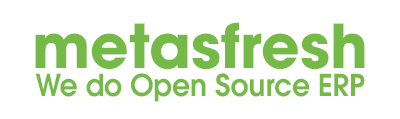
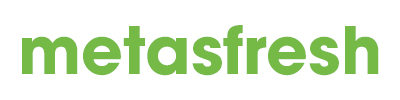
Update docs pages
- changed logo
- updated links (made them language dependent)
- some minor corrections

(this is about issue #493 )

Changed region(s): [[0.03, 0.18, 0.96, 0.87]]

diff --git a/_includes/head.html b/_includes/head.html
@@ -42,11 +42,21 @@
         <nav>
             <div class="row">
                 <div class="main-nav">
-                    <a href="{{ site.github.url }}/index.html">Zurück zur Startseite</a>
+                    {% if page.name == "index.md" %}
+                        <a href="https://metasfresh.com/en/category/blog-en/" target="_blank">Visit our blog on metasfresh.com!</a>
+                    {% else %}
+                        {% if page.lang == 'de' or include.lang == 'de' %}
+                            <a href="{{ site.github.url }}/index.html">Zurück zur Startseite</a>
+                        {% else %}
+                            <a href="{{ site.github.url }}/index.html">Return to Home</a>
+                        {% endif %}
+                    {% endif %}
                 </div>
-                <a href="{{ metasfresh_home }}" title="Go to metasfresh.com" target="_blank">
-                    <img src="{{ site.github.url }}/images/metasfreshNEG_400px.jpg" alt="metasfresh logo and link to homepage" class="logo">
-                </a>
+                {% if page.lang == 'de' or include.lang == 'de' %}
+                    <a href="{{ metasfresh_home }}" title="Zur metasfresh.com Homepage" target="_blank"><img src="{{ site.github.url }}/images/metasfreshNEG_400px.jpg" alt="metasfresh Logo und Link zur Website" class="logo"></a>
+                {% else %}
+                    <a href="{{ metasfresh_home }}" title="Visit metasfresh.com" target="_blank"><img src="{{ site.github.url }}/images/metasfreshNEG_400px.jpg" alt="metasfresh logo and link to website" class="logo"></a>
+                {% endif %}
             </div>
         </nav>
 

diff --git a/_includes/foot.html b/_includes/foot.html
@@ -4,12 +4,21 @@
 -->
 	<!-- adding the data-proofer-ignore ignore attribute for html-proofer, because when this is evaluated, the respective md file might not yet be on the ghpages branch -->
 	<hr>
-	<a href="https://github.com/metasfresh/metasfresh-documentation/blob/gh-pages/{{page.path}}" data-proofer-ignore>Zur Quelldatei auf github.com</a><br/>
-	
-	{% comment %} 
+      {% if page.name == "index.md" %}
+          <a href="https://github.com/metasfresh/metasfresh/releases/latest" title="View the latest metasfresh release" target="_blank" data-proofer-ignore>View our Source Code on GitHub.com</a>
+      {% else %}
+          {% if page.lang == 'de' or include.lang == 'de' %}
+              <a href="https://github.com/metasfresh/metasfresh-documentation/blob/gh-pages/{{page.path}}" title="Quelldatei dieser Seite anzeigen" target="_blank" data-proofer-ignore>Zur Quelldatei auf GitHub.com</a>
+          {% else %}
+              <a href="https://github.com/metasfresh/metasfresh-documentation/blob/gh-pages/{{page.path}}" title="View this page's source file" target="_blank" data-proofer-ignore>View source file on GitHub.com</a>
+          {% endif %}
+      {% endif %}
+	<br/>
+
+	{% comment %}
 	This doesn't really make sense, because all pages are recreated if one of them changes.
 	What we could use would be an indiviual page's update time..
-	Seite zuletzt geändert: {{ site.time | date_to_long_string }} 
+	Seite zuletzt geändert: {{ site.time | date_to_long_string }}
 	{% endcomment %}
 </body>
 </html>

diff --git a/css/styles.css b/css/styles.css
@@ -11,7 +11,7 @@
 .main-nav {
     float: left;
     list-style: none;
-    margin-top: 25px;
+    margin-top: 20px;
 }
 
 .main-nav a {

diff --git a/_howto_collection/EN/metasfresh_architecture.md b/_howto_collection/EN/metasfresh_architecture.md
@@ -13,15 +13,15 @@ lang: en
 
 | Service | Dev Language | Running on | Technologies | Repo |
 | :--- | :--- | :--- | :--- | :--- |
-| WebUI | Javascript | Apache / Nginx | React Redux, HTML5, PostCSS | <a href="https://github.com/metasfresh/metasfresh-webui-frontend" title="metasfresh-webui-frontend on Github" target="blank">Github</a> |
-| WebAPI | Java 8 | Spring Boot | REST, JSON, Swagger, Spring, hazelcast, websocket | <a href="https://github.com/metasfresh/metasfresh-webui" title="metasfresh-webui on Github" target="blank">Github</a> |
-| App | Java 8, SQL | Spring Boot | Jasper Reports, Application Dictionary | <a href="https://github.com/metasfresh/metasfresh" title="metasfresh on Github" target="blank">Github</a> |
-| DB | SQL, PgSQL | Postgres (9.5+) | Application Dictionary | <a href="https://github.com/metasfresh/metasfresh" title="metasfresh on Github" target="blank">Github</a> |
-| Reporting | JRXML | Jasperserver | Jasper Reports 6.5.1 <a href="https://community.jaspersoft.com/project/jaspersoft-studio/releases#project_releases-old-1" title="Jaspersoft® Studio" target="blank">Client</a> | <a href="https://github.com/metasfresh/metasfresh/tree/master/de.metas.fresh/de.metas.fresh.base/src/main/jasperreports/de/metas" title="jasperreports/de/metas on Github" target="blank">Github</a> |
-| elastic Search |  |  | Standard Elastic Search | <a href="https://github.com/elastic/elasticsearch" title="elasticsearch on Github" target="blank">Github</a> |
-| RabbitMQ |  |  |Standard RabbitMQ | <a href="https://github.com/rabbitmq" title="rabbitmq on Github" target="blank">Github</a> |
-| Java Client | Java 8 | Java JRE 8+ | Swing | <a href="https://github.com/metasfresh/metasfresh" title="metasfresh on Github" target="blank">Github</a> |
+| WebUI | Javascript | Apache / Nginx | React Redux, HTML5, PostCSS | <a href="https://github.com/metasfresh/metasfresh-webui-frontend" title="metasfresh-webui-frontend on Github" target="_blank">Github</a> |
+| WebAPI | Java 8 | Spring Boot | REST, JSON, Swagger, Spring, hazelcast, websocket | <a href="https://github.com/metasfresh/metasfresh-webui" title="metasfresh-webui on Github" target="_blank">Github</a> |
+| App | Java 8, SQL | Spring Boot | Jasper Reports, Application Dictionary | <a href="https://github.com/metasfresh/metasfresh" title="metasfresh on Github" target="_blank">Github</a> |
+| DB | SQL, PgSQL | Postgres (9.5+) | Application Dictionary | <a href="https://github.com/metasfresh/metasfresh" title="metasfresh on Github" target="_blank">Github</a> |
+| Reporting | JRXML | Jasperserver | Jasper Reports 6.5.1 <a href="https://community.jaspersoft.com/project/jaspersoft-studio/releases#project_releases-old-1" title="Jaspersoft® Studio" target="_blank">Client</a> | <a href="https://github.com/metasfresh/metasfresh/tree/master/de.metas.fresh/de.metas.fresh.base/src/main/jasperreports/de/metas" title="jasperreports/de/metas on Github" target="_blank">Github</a> |
+| elastic Search |  |  | Standard Elastic Search | <a href="https://github.com/elastic/elasticsearch" title="elasticsearch on Github" target="_blank">Github</a> |
+| RabbitMQ |  |  |Standard RabbitMQ | <a href="https://github.com/rabbitmq" title="rabbitmq on Github" target="_blank">Github</a> |
+| Java Client | Java 8 | Java JRE 8+ | Swing | <a href="https://github.com/metasfresh/metasfresh" title="metasfresh on Github" target="_blank">Github</a> |
 |  |  |  |  |  |
 | ***Optional:*** |
-| Material Schedule | Java 8 | Spring Boot | Real-time calculation of material | <a href="https://github.com/metasfresh/metasfresh" title="metasfresh on Github" target="blank">Github</a> |
-| Jasper Reports | Java 8 | Spring Boot | Render Jasper reports | <a href="https://github.com/metasfresh/metasfresh" title="metasfresh on Github" target="blank">Github</a> |
+| Material Schedule | Java 8 | Spring Boot | Real-time calculation of material | <a href="https://github.com/metasfresh/metasfresh" title="metasfresh on Github" target="_blank">Github</a> |
+| Jasper Reports | Java 8 | Spring Boot | Render Jasper reports | <a href="https://github.com/metasfresh/metasfresh" title="metasfresh on Github" target="_blank">Github</a> |

diff --git a/_rest_api_collection/EN/General_info_REST_API.md b/_rest_api_collection/EN/General_info_REST_API.md
@@ -9,7 +9,7 @@ ref: general_info_rest_api
 ---
 
 ## Overview
-By means of the metasfresh web service (REST API) you can transfer external data to metasfresh and retrieve, update or delete existing data entries from the system. This is done via so-called *API endpoints*. Each endpoint is set up for the migration of certain data sets, which can be transferred to the metasfresh application server through server requests in <a href="https://www.json.org/index.html" title="Introducing JSON" target="blank">JSON format</a>. A special feature of the metasfresh REST API is that you can also combine data sets that would normally be migrated separately via the respective endpoints, and import them in a single server request, thereby creating several data entries in one go. For example, when migrating a sales order candidate to metasfresh's sales order disposition, both a new business partner and product entry can be created simultaneously.
+By means of the metasfresh web service (REST API) you can transfer external data to metasfresh and retrieve, update or delete existing data entries from the system. This is done via so-called *API endpoints*. Each endpoint is set up for the migration of certain data sets, which can be transferred to the metasfresh application server through server requests in <a href="https://www.json.org/index.html" title="Introducing JSON" target="_blank">JSON format</a>. A special feature of the metasfresh REST API is that you can also combine data sets that would normally be migrated separately via the respective endpoints, and import them in a single server request, thereby creating several data entries in one go. For example, when migrating a sales order candidate to metasfresh's sales order disposition, both a new business partner and product entry can be created simultaneously.
 
 A template for a JSON server request is provided for each endpoint in the respective input field (![request example](assets/example_value.png)) and can be viewed, copied and modified using the required data. A description of the request model (![request model](assets/model.png)) with explanations of the individual elements will help you to create your own server request.
 
@@ -21,7 +21,7 @@ In order to use the web service, you require an authentication token that you wi
  >**Note:** The URL is usually composed as follows:<br> https://`instance.name###`.metasfresh.com/app/swagger-ui.html#/
 
 1. Open the endpoint you want to use for data migration by clicking on the endpoint name.
-1. Click on the desired <a href="https://www.w3schools.com/tags/ref_httpmethods.asp" title="HTTP Request Methods" target="blank">request method</a> on the left below the endpoint name.
+1. Click on the desired <a href="https://www.w3schools.com/tags/ref_httpmethods.asp" title="HTTP Request Methods" target="_blank">request method</a> on the left below the endpoint name.
 1. Click !["Try it out"](assets/button_try_it_out.png) on the right below the request method. The input fields **Authorization token** and **request** become editable.
 1. In the field **Authorization token**, paste your authentication token.
 1. In the field **request**, paste your prepared JSON server request.

diff --git a/_rest_api_collection/DE/Allgemeine_Infos_REST_API.md b/_rest_api_collection/DE/Allgemeine_Infos_REST_API.md
@@ -9,7 +9,7 @@ ref: general_info_rest_api
 ---
 
 ## Überblick
-Über den metasfresh Webservice (REST API) kannst Du externe Daten nach metasfresh übertragen sowie bestehende Dateneinträge aus dem System abrufen, aktualisieren oder löschen. Dies erfolgt über sogenannte *API-Endpunkte*, wobei jeder Endpunkt für die Migration bestimmter Datensätze eingerichtet ist, die mittels Serveranfrage im <a href="https://www.json.org/json-de.html" title="Einführung in JSON" target="blank">JSON-Format</a> an den metasfresh Application Server übermittelt werden können.
+Über den metasfresh Webservice (REST API) kannst Du externe Daten nach metasfresh übertragen sowie bestehende Dateneinträge aus dem System abrufen, aktualisieren oder löschen. Dies erfolgt über sogenannte *API-Endpunkte*, wobei jeder Endpunkt für die Migration bestimmter Datensätze eingerichtet ist, die mittels Serveranfrage im <a href="https://www.json.org/json-de.html" title="Einführung in JSON" target="_blank">JSON-Format</a> an den metasfresh Application Server übermittelt werden können.
 Eine Besonderheit der metasfresh REST API ist, dass Du Datenmigrationen, die im Normalfall über die einzelnen Endpunkte erfolgen würden, ebenso gut in nur einer Serveranfrage zusammenfassen kannst, im Zuge dessen gleich mehrere Dateneinträge auf einmal angelegt werden. So lässt sich z.B. bei der Migration eines Auftragskandidaten in die Auftragsdisposition von metasfresh gleichzeitig ein neuer Geschäftspartner- und Produkteintrag anlegen.
 
 Eine Vorlage für eine Serveranfrage im JSON-Format steht für jeden Endpunkt zur Verfügung und kann an der jeweiligen Stelle (![Anfragevorlage](assets/example_value.png)) eingesehen, kopiert und mit den gewünschten Daten ergänzt werden. Eine Beschreibung des Anfrage-Modells (![Anfrage-Modell](assets/model.png)) mit Erläuterungen zu den einzelnen Elementen hilft Dir bei der Erstellung Deiner eigenen Serveranfrage.
@@ -22,7 +22,7 @@ Um den Webservice nutzen zu können, benötigst Du allerdings ein Autorisierungs
  >**Hinweis:** Die URL setzt sich in der Regel folgendermaßen zusammen:<br> https://`instanzname###`.metasfresh.com/app/swagger-ui.html#/
 
 1. Öffne den Endpunkt, den Du zur Datenmigration verwenden möchtest, durch Anklicken des Endpunktnamens.
-1. Klicke links unterhalb des Endpunktnamens auf die gewünschte <a href="https://wiki.selfhtml.org/wiki/HTTP/Anfragemethoden" title="HTTP-Anfragemethoden" target="blank">Anfragemethode</a>.
+1. Klicke links unterhalb des Endpunktnamens auf die gewünschte <a href="https://wiki.selfhtml.org/wiki/HTTP/Anfragemethoden" title="HTTP-Anfragemethoden" target="_blank">Anfragemethode</a>.
 1. Klicke rechts unterhalb der Anfragemethode auf ![Ausprobieren](assets/button_try_it_out.png). Die Eingabefelder **Authorization token** und **request** werden editierbar.
 1. Füge in das Feld **Authorization token** Dein Autorisierungstoken ein.
 1. Füge in das Feld **request** Deine vorbereitete Serveranfrage im JSON-Format ein.

diff --git a/_webui_collection/DE/Lieferwege_konfigurieren.md b/_webui_collection/DE/Lieferwege_konfigurieren.md
@@ -36,8 +36,8 @@ metasfresh verfügt derzeit über Schnittstellen für den Versand mit folgenden 
 ---
 
 ### <a name="dpd-konfiguration">DPD Konfiguration</a>
-1. Trage in das Feld **URL Api Login** die URL für die <a href="http://diswiki.dpd.nl/wiki/2/login-service" title="dpd Login Service" target="blank">Anmeldung und Authentifizierung</a> gegenüber der DPD-Anwendungsschnittstelle ein.
-1. Trage in das Feld **URL Api Shipment Service** die URL für den Zugriff auf die <a href="http://diswiki.dpd.nl/wiki/3/shipment-service" title="dpd Shipment Service" target="blank">Versandschnittstelle</a> ein, über die die Versandscheine generiert werden.
+1. Trage in das Feld **URL Api Login** die URL für die <a href="http://diswiki.dpd.nl/wiki/2/login-service" title="dpd Login Service" target="_blank">Anmeldung und Authentifizierung</a> gegenüber der DPD-Anwendungsschnittstelle ein.
+1. Trage in das Feld **URL Api Shipment Service** die URL für den Zugriff auf die <a href="http://diswiki.dpd.nl/wiki/3/shipment-service" title="dpd Shipment Service" target="_blank">Versandschnittstelle</a> ein, über die die Versandscheine generiert werden.
 1. Trage die **Delis ID** ein, die Du von DPD für die Einrichtung erhalten hast.
 1. Trage das **Delis Passwort** ein, das Du von DPD für die Einrichtung erhalten hast.
 1. Wähle ein **Papierformat** für die Versandscheine aus.
@@ -45,7 +45,7 @@ metasfresh verfügt derzeit über Schnittstellen für den Versand mit folgenden 
 
 | **Wichtiger Hinweis:** |
 | :--- |
-| Folgende DPD-Dienste stehen derzeit zur Verfügung:<br> •&nbsp;<a href="https://www.dpd.com/de/de/versenden/paketversand/" title="DPD CLASSIC Paketversand" target="blank">DPD CLASSIC</a> (in Deutschland und ganz Europa)<br> •&nbsp;<a href="https://www.dpd.com/de/de/versenden/expressversand/" title="DPD Expressversand" target="blank">DPD EXPRESS E12</a> (innerhalb Deutschlands) |
+| Folgende DPD-Dienste stehen derzeit zur Verfügung:<br> •&nbsp;<a href="https://www.dpd.com/de/de/versenden/paketversand/" title="DPD CLASSIC Paketversand" target="_blank">DPD CLASSIC</a> (in Deutschland und ganz Europa)<br> •&nbsp;<a href="https://www.dpd.com/de/de/versenden/expressversand/" title="DPD Expressversand" target="_blank">DPD EXPRESS E12</a> (innerhalb Deutschlands) |
 
 ## Nächste Schritte
 - [Richte einen Lieferweg Deiner Wahl als Standardlieferweg für einen bestimmten Kunden ein](GPartner_Standardlieferweg_einrichten).

diff --git a/StyleGuide.md b/StyleGuide.md
@@ -10,7 +10,7 @@ If you add new files ensure the following:
 - thr filename has the extension `.md` (markdown)
 - the filename only includes letters `Aa-Zz`, numbers `0-9`, and `_` (underscore)
 - UTF-8 **without BOM** character encoding
-- the file begins with a YAML-header (called <a href="https://jekyllrb.com/docs/front-matter/" title="YAML front matter | jekyllrb.com" target="blank"><em>front matter</em></a>) containing meta data for Jekyll that looks something like this:
+- the file begins with a YAML-header (called <a href="https://jekyllrb.com/docs/front-matter/" title="YAML front matter | jekyllrb.com" target="_blank"><em>front matter</em></a>) containing meta data for Jekyll that looks something like this:
 
   ```
   ---
@@ -32,7 +32,7 @@ If you add new files ensure the following:
   - `lang` shall be the two-letter language code (in acc. with ISO 639-1:2002).<br>Examples: en = English, de = German, es = Spanish, zh = Chinese, etc.
   - `sequence` will put the articles in the defined order (10, 20, 30, ...). If no sequence is defined, the articles are sorted alphabetically.
   - `ref` is required to identify different language versions of the same article, i.e. a German how-to and its translations all need to have the same identical `ref` value together with their respective `lang` value. That way the system knows that they belong together and it can determine the language of each article.
-    - Credits for `ref` and `lang` go to ***Sylvain Durand*** who explains this matter comprehensibly on his <a href="https://www.sylvaindurand.org/making-jekyll-multilingual/" title="Making Jekyll multilingual | sylvaindurand.org" target="blank">website</a>.
+    - Credits for `ref` and `lang` go to ***Sylvain Durand*** who explains this matter comprehensibly on his <a href="https://www.sylvaindurand.org/making-jekyll-multilingual/" title="Making Jekyll multilingual | sylvaindurand.org" target="_blank">website</a>.
   - If your file is to be a part of a collection which is used to auto-generate table of contents, make sure it is residing in a folder starting with `_` (underscore), e.g. `_howto_collection`.
   - Make use of {% raw %}`{{ site.github.url }}`{% endraw %}.
     - Instead of `../images/myimage.png`, use {% raw %}`{{ site.github.url }}/images/myimage.png`{% endraw %}. This ensures that the file which contains the link can be moved around without the link breaking.

diff --git a/_webui_collection/EN/Shipper_configuration.md b/_webui_collection/EN/Shipper_configuration.md
@@ -36,8 +36,8 @@ metasfresh currently offers interfaces for shipping with the following service p
 ---
 
 ### <a name="dpd-configuration">DPD Configuration</a>
-1. In the field **Login Api Url**, enter the URL for <a href="http://diswiki.dpd.nl/wiki/2/login-service" title="dpd Login Service" target="blank">login and authentication</a> against the DPD API.
-1. In the field **Shipment Service Api Url**, enter the URL for accessing the <a href="http://diswiki.dpd.nl/wiki/3/shipment-service" title="dpd Shipment Service" target="blank">shipping interface</a> used to generate the shipping labels.
+1. In the field **Login Api Url**, enter the URL for <a href="http://diswiki.dpd.nl/wiki/2/login-service" title="dpd Login Service" target="_blank">login and authentication</a> against the DPD API.
+1. In the field **Shipment Service Api Url**, enter the URL for accessing the <a href="http://diswiki.dpd.nl/wiki/3/shipment-service" title="dpd Shipment Service" target="_blank">shipping interface</a> used to generate the shipping labels.
 1. Enter the **Delis ID** provided by DPD for setup.
 1. Enter the **Delis Password** provided by DPD for setup.
 1. Pick a **Paper Format** for the shipping labels.
@@ -45,7 +45,7 @@ metasfresh currently offers interfaces for shipping with the following service p
 
 | **Important note:** |
 | :--- |
-| The following DPD services are currently available:<br> •&nbsp;<a href="https://www.dpd.com/de/en/versenden/paketversand/" title="DPD CLASSIC parcel shipping" target="blank">DPD CLASSIC</a> (in Germany and throughout Europe)<br> •&nbsp;<a href="https://www.dpd.com/de/en/versenden/expressversand/" title="DPD Express shipping" target="blank">DPD EXPRESS E12</a> (within Germany) |
+| The following DPD services are currently available:<br> •&nbsp;<a href="https://www.dpd.com/de/en/versenden/paketversand/" title="DPD CLASSIC parcel shipping" target="_blank">DPD CLASSIC</a> (in Germany and throughout Europe)<br> •&nbsp;<a href="https://www.dpd.com/de/en/versenden/expressversand/" title="DPD Express shipping" target="_blank">DPD EXPRESS E12</a> (within Germany) |
 
 ## Next Steps
 - [Set up a shipper of your choice as default shipper for a particular customer](Setup_bpartner_default_shipper).

diff --git a/index.md b/index.md
@@ -22,11 +22,12 @@ layout: default
   - [Setup Guides](pages/setup/index_en)
   - [Talend Guides](pages/talend/index_en)
 
-### Get in contact with us
-- via <a href="http://forum.metasfresh.org" title="metasfresh Forum" target="blank">Forum</a>.
-- via metasfresh Website: <a href="http://metasfresh.com/en" title="metasfresh.com (EN)" target="blank">English</a> and <a href="http://metasfresh.com/" title="metasfresh.com (DE)" target="blank">Deutsch</a>.
-- Follow us on Twitter: <a href="https://twitter.com/metasfresh" title="metasfresh on Twitter (EN)" target="blank">@metasfresh (English)</a>, <a href="https://twitter.com/metasfreshDE" title="metasfresh auf Twitter (DE)" target="blank">@metasfreshDE (German)</a>.
-- There are also two Gitter chat rooms. One for <a href="https://gitter.im/metasfresh/metasfresh" title="metasfresh on Gitter" target="blank">metasfresh</a> and one for <a href="https://gitter.im/metasfresh/metasfresh-documentation" title="metasfresh-documentation on Gitter" target="blank">metasfresh-documentation</a>.
+### Get in touch with us!
+- via <a href="http://forum.metasfresh.org" title="metasfresh Forum" target="_blank">Forum</a>.
+- via metasfresh Website: <a href="http://metasfresh.com/en" title="metasfresh.com (EN)" target="_blank">English</a> and <a href="http://metasfresh.com/" title="metasfresh.com (DE)" target="_blank">Deutsch</a>.
+- Follow us on Twitter: <a href="https://twitter.com/metasfresh" title="metasfresh on Twitter (EN)" target="_blank">@metasfresh (English)</a>, <a href="https://twitter.com/metasfreshDE" title="metasfresh auf Twitter (DE)" target="_blank">@metasfreshDE (German)</a>.
+- There are also two Gitter chat rooms. One for <a href="https://gitter.im/metasfresh/metasfresh" title="metasfresh on Gitter" target="_blank">metasfresh</a> and one for <a href="https://gitter.im/metasfresh/metasfresh-documentation" title="metasfresh-documentation on Gitter" target="_blank">metasfresh-documentation</a>.
+- <a href="https://github.com/metasfresh" title="metasfresh on GitHub.com" target="_blank">Visit us on GitHub!</a>
 
 ### Legacy
 - Legacy Java Client [(EN)](pages/howto/index_en) [(DE)](pages/howto/index_de)

diff --git a/_contributors_guide_collection/EN/how_to_get_started_with_translating_docs.md b/_contributors_guide_collection/EN/how_to_get_started_with_translating_docs.md
@@ -7,16 +7,16 @@ lang: en
 ---
 
 ## 1. Understand the task
-1. <a href="https://metasfresh.com/en/download/" title="Download the latest version on metasfresh.com" target="blank">Get access to the latest version of metasfresh</a>.
+1. <a href="https://metasfresh.com/en/download/" title="Download the latest version on metasfresh.com" target="_blank">Get access to the latest version of metasfresh</a>.
 1. [Test a feature documented in the German manual first](../../pages/webui/index_de).
-1. Report any feedback by <a href="https://github.com/metasfresh/metasfresh-documentation/issues" title="metasfresh-documentation on GitHub" target="blank">creating a new issue on GitHub</a> if the documentation needs to be updated.
+1. Report any feedback by <a href="https://github.com/metasfresh/metasfresh-documentation/issues" title="metasfresh-documentation on GitHub" target="_blank">creating a new issue on GitHub</a> if the documentation needs to be updated.
 1. [Switch metasfresh to English](../../webui_collection/EN/SwitchLanguage.html).
 1. [Test the same feature in English](../../pages/webui/index_en).
-1. Report any feedback on <a href="https://github.com/metasfresh/metasfresh-documentation/issues" title="metasfresh-documentation on GitHub" target="blank">GitHub</a> if fields are missing translation or the documentation needs to be updated.
+1. Report any feedback on <a href="https://github.com/metasfresh/metasfresh-documentation/issues" title="metasfresh-documentation on GitHub" target="_blank">GitHub</a> if fields are missing translation or the documentation needs to be updated.
 1. Repeat steps 2 to 6 for as many features as you want to test.
 
 ## 2. Install your tools
-1. <a href="https://desktop.github.com/" title="Download GitHub Desktop from the official website" target="blank">Download and install GitHub Desktop</a>.
+1. <a href="https://desktop.github.com/" title="Download GitHub Desktop from the official website" target="_blank">Download and install GitHub Desktop</a>.
 1. [Download, install and configure Atom Editor](how_to_setup_atom_for_contributing_docs).
 
 ## 3. Prepare Repository

diff --git a/_webui_collection/DE/Importformat_Beispiel_GPartner_Pharma.md b/_webui_collection/DE/Importformat_Beispiel_GPartner_Pharma.md
@@ -12,7 +12,7 @@ ref: import_format_example_bpartner_pharma
 ---
 
 ## Überblick
-Für den Import von Herstellerdaten gemäß <a href="https://www.ifaffm.de/de/ifa-gmbh.html" title="Informationsstelle für Arzneispezialitäten" target="blank">IFA GmbH</a> benötigst Du ein Importformat, in dem die **DB-Tabelle** *Import Pharma BPartners* eingestellt ist.
+Für den Import von Herstellerdaten gemäß <a href="https://www.ifaffm.de/de/ifa-gmbh.html" title="Informationsstelle für Arzneispezialitäten" target="_blank">IFA GmbH</a> benötigst Du ein Importformat, in dem die **DB-Tabelle** *Import Pharma BPartners* eingestellt ist.
 
 In dem folgenden Beispiel wird der Dateninhalt aus einer Datei einer Tabellenkalkulationssoftware (hier z.B. eine *Excel*-Datei vor der [Konvertierung in eine CSV- oder TXT-Datei](Importdatei_nuetzliche_Hinweise)) dem Importformat für IFA-Herstellerdaten gegenübergestellt:
 
@@ -28,7 +28,7 @@ In dem folgenden Beispiel wird der Dateninhalt aus einer Datei einer Tabellenkal
 
 ### Einige nützliche Hinweise
 Die Angabe der Pflichtfelder ist unerlässlich für einen erfolgreichen Datenimport!
- >**Hinweis:** Ausführliche Informationen zu den Feldbedeutungen gibt es in der Produktbeschreibung der IFA-Informationsdienste (<a href="https://www.ifaffm.de/mandanten/1/documents/03_ifa_fuer_datenbezieher/Produktbeschreibung_10218-20218_lang.pdf" title="IFA-Informationsdienste Produktbeschreibung" target="blank">PDF hier herunterladen und lesen</a>).
+ >**Hinweis:** Ausführliche Informationen zu den Feldbedeutungen gibt es in der Produktbeschreibung der IFA-Informationsdienste (<a href="https://www.ifaffm.de/mandanten/1/documents/03_ifa_fuer_datenbezieher/Produktbeschreibung_10218-20218_lang.pdf" title="IFA-Informationsdienste Produktbeschreibung" target="_blank">PDF hier herunterladen und lesen</a>).
 
 | Pflichtfeld | Feldname | Hinweis |
 | :---: | :---: | :--- |
